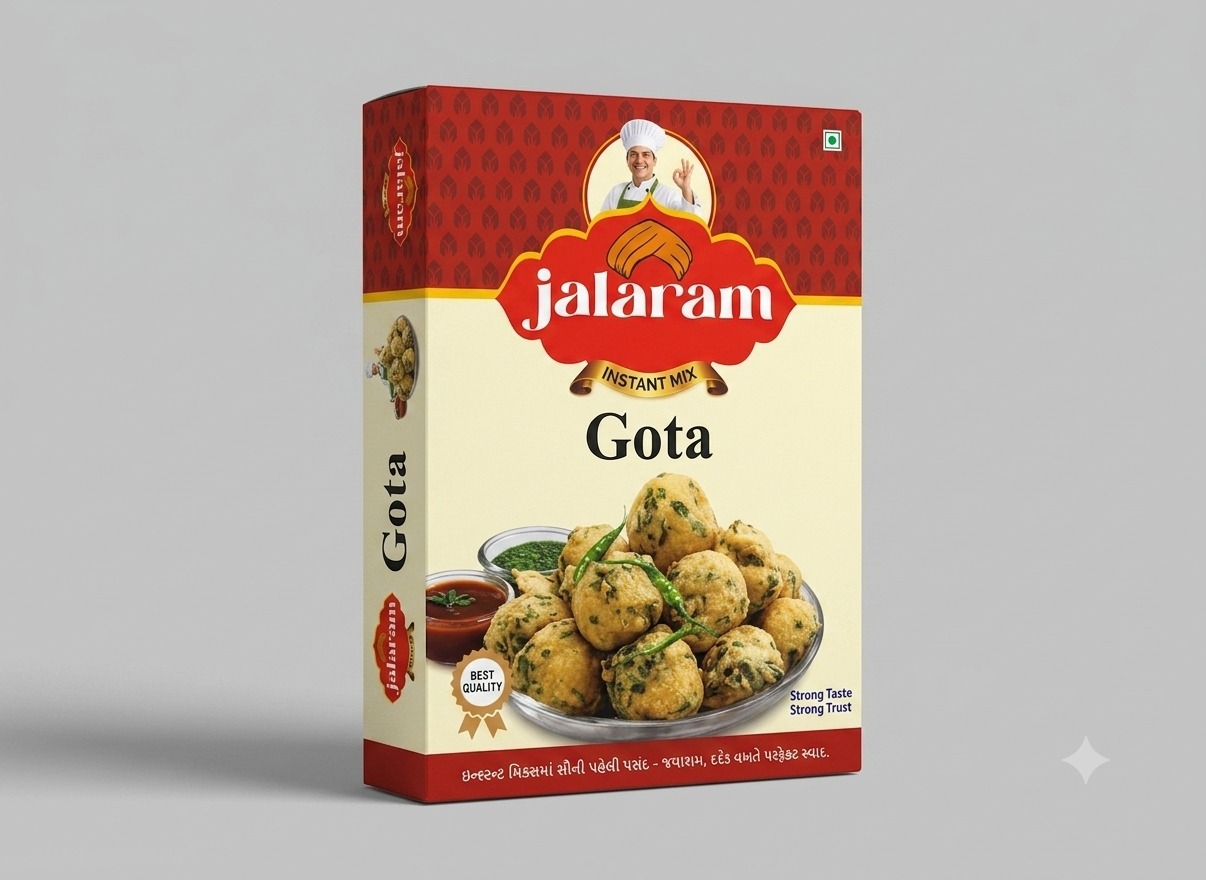
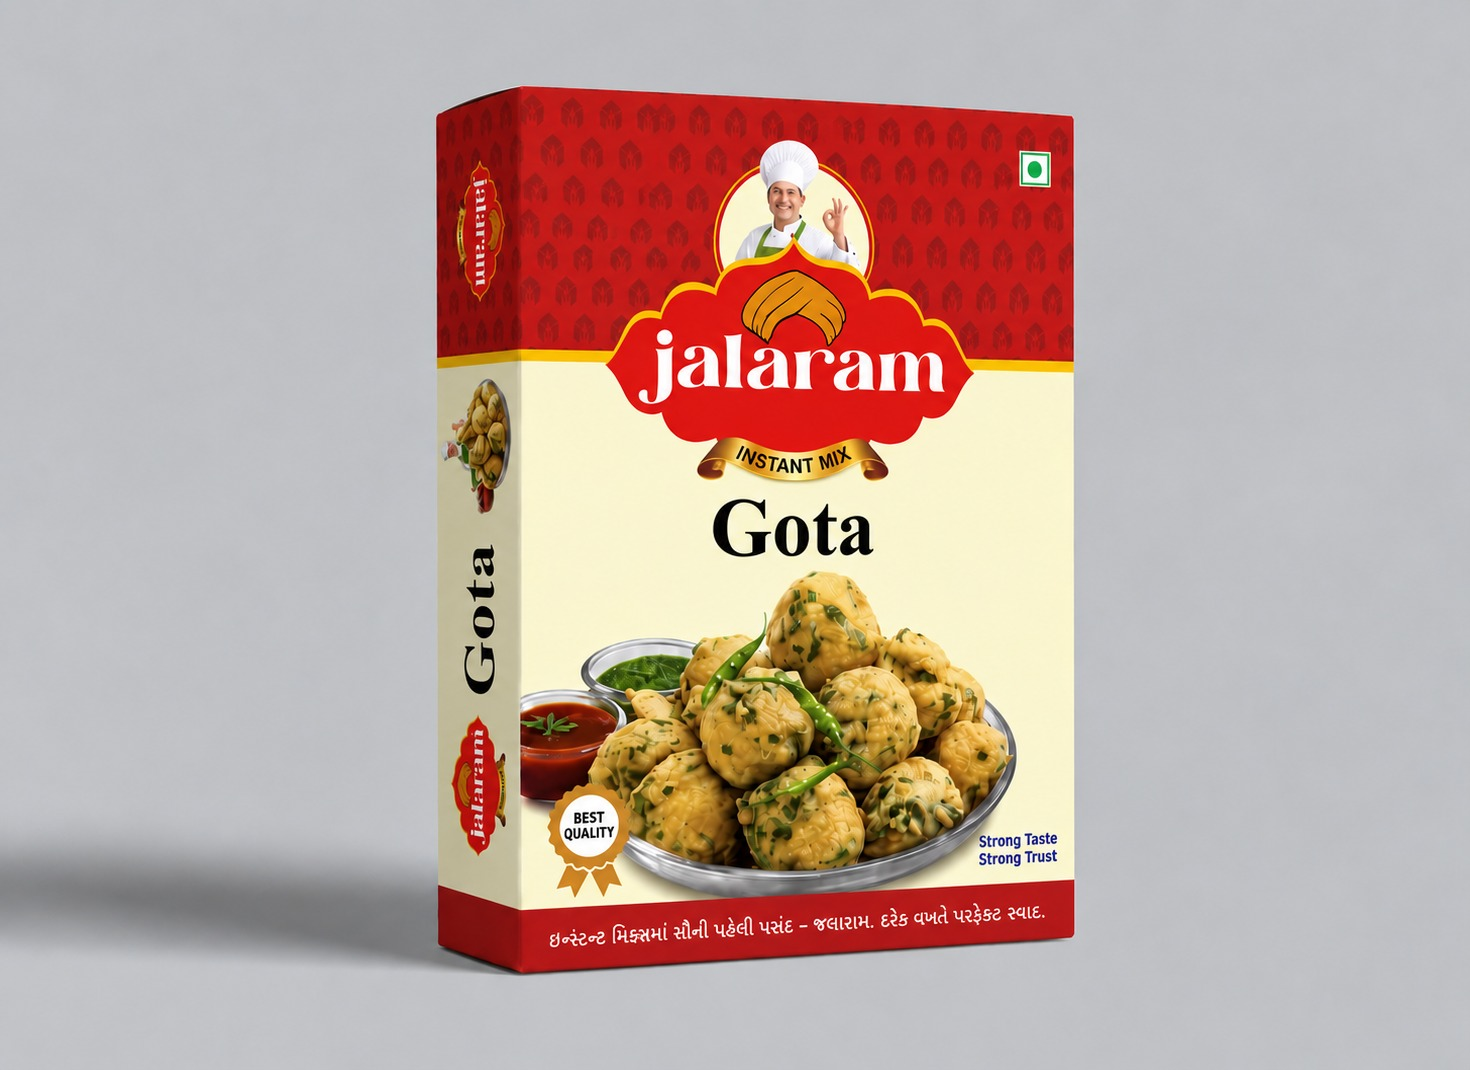
Fix Cosmetics tags, jalaram photo, decade copy, and mobile scroll lock
- Swap in newest Jalaram Gota box render, update its dimensions
- Change Siriza soap tag from "Cosmetics" to "Personal Care"
- Match "Over a decade" phrasing on the why-partner expertise card
- Simplify the two pharma case-study card descriptions
- Fix CurvedLoop's touch-none badge trapping mobile scroll when a
  touch starts on it (sticky in DesignerSpecCard); switch to touch-pan-y
- Add isConcept badge for self-directed concept portfolio pieces

Changed region(s): [[0.2761, 0.0614, 0.7363, 0.9205], [0.0, 0.7977, 0.2148, 0.8591]]

diff --git a/lib/constants/portfolio.ts b/lib/constants/portfolio.ts
@@ -17,6 +17,8 @@ export type PortfolioItem = {
   isFlagship?: boolean;
   /** Portrait (default) vs wide — set "wide" for landscape source photos */
   cardAspect?: "portrait" | "wide";
+  /** Self-directed concept piece — no live client brief. Surfaced as a "Concept Project" badge so it's never mistaken for paid client work. */
+  isConcept?: boolean;
 };
 
 export const portfolioItems: PortfolioItem[] = [
@@ -31,7 +33,7 @@ export const portfolioItems: PortfolioItem[] = [
     height: 1402,
     isFlagship: true,
     description:
-      "A pediatric paracetamol syrup carton needed dosage and usage information to read clearly at a glance, plus a friendlier, more approachable visual tone than a typical adult medicine box. The design keeps that label hierarchy simple and legible while working within the exact dieline and print-ready specs the format requires.",
+      "A friendly, easy-to-read carton for a children's paracetamol syrup. Dosage and usage stay clear at a glance, built to the exact dieline and print-ready specs the format calls for.",
   },
   {
     slug: "paracetamol-tablets-blue",
@@ -44,7 +46,7 @@ export const portfolioItems: PortfolioItem[] = [
     height: 1122,
     cardAspect: "wide",
     description:
-      "A 10x10 tablet strip carton needed to read clearly as a standard pharmaceutical pack — accurate strength and count labeling — built to the exact dieline the printer runs against. The blue wave graphic gives the pack a distinct shelf identity within an otherwise text-heavy, regulated layout.",
+      "A standard 10x10 tablet carton with clear strength and count labeling, built to the exact dieline the printer runs against. The blue wave graphic gives it a distinct look next to typical text-heavy medicine boxes.",
   },
   {
     slug: "shri-hanuman-realty-dholera",
@@ -103,7 +105,7 @@ export const portfolioItems: PortfolioItem[] = [
     title: "Lil'Aura — Lavender Car Freshener",
     client: "Lil'Aura",
     category: "packaging",
-    tags: ["Cosmetics", "Box Design"],
+    tags: ["Car Freshener", "Box Design"],
     src: "/portfolio/packaging/lilaura-car-freshener-lavender.webp",
     width: 1122,
     height: 1402,
@@ -114,7 +116,7 @@ export const portfolioItems: PortfolioItem[] = [
     title: "Lil'Aura — Oudh Wood Car Freshener",
     client: "Lil'Aura",
     category: "packaging",
-    tags: ["Cosmetics", "Box Design"],
+    tags: ["Car Freshener", "Box Design"],
     src: "/portfolio/packaging/lilaura-car-freshener-oudh-wood.webp",
     width: 1122,
     height: 1402,
@@ -147,7 +149,7 @@ export const portfolioItems: PortfolioItem[] = [
     title: "Siriza — Premium Herbal Soap Box",
     client: "Siriza",
     category: "packaging",
-    tags: ["Cosmetics", "Box Design"],
+    tags: ["Personal Care", "Box Design"],
     src: "/portfolio/packaging/siriza-herbal-soap-box.webp",
     width: 1264,
     height: 842,
@@ -160,8 +162,8 @@ export const portfolioItems: PortfolioItem[] = [
     category: "packaging",
     tags: ["Food & Snack", "Box Design"],
     src: "/portfolio/packaging/jalaram-gota-food-box.png",
-    width: 1206,
-    height: 880,
+    width: 1470,
+    height: 1070,
     dielineSrc: "/portfolio/dielines/jalaram-gota.png",
   },
   {

diff --git a/lib/constants/site-copy.ts b/lib/constants/site-copy.ts
@@ -54,8 +54,8 @@ export const whyPartner = {
   heading: "Why Partner With Me?",
   items: [
     {
-      title: "10+ Years of Expertise",
-      body: "A decade of professional freelance and studio experience at your service.",
+      title: "Over a Decade of Expertise",
+      body: "Over a decade of professional freelance and studio experience at your service.",
     },
     {
       title: "Print-Ready Guarantee",
@@ -78,14 +78,16 @@ export const whyPartner = {
 
 // Sourced from docs/client-requirements.md → "Addendum — 2026-08-31:
 // Pharmaceutical & healthcare packaging repositioning". Derived from facts
-// already established elsewhere in that doc — no new claims, no
-// regulatory-body language (CDSCO/ISO/GMP) until Amee confirms she designs
-// to those standards, no fabricated testimonials or stats.
+// already established elsewhere in that doc — no new claims. Per the
+// 2026-09-09 addendum, Amee confirmed she does NOT design to CDSCO/ISO
+// 15378/GMP specifically (those certify the manufacturer/factory, not the
+// artwork) — regulatory-body language stays out permanently, not just
+// pending confirmation. No fabricated testimonials or stats.
 export const pharma = {
   eyebrow: "Specialization",
   heading: "Pharmaceutical & Healthcare Packaging",
   intro:
-    "Regulatory medicine boxes and clinical/wellness literature are where precision matters most — exact dielines, accurate label copy, and print files your manufacturer can run without a single back-and-forth. It's a specialty within my packaging practice, built on the same print-ready guarantee as everything else I design.",
+    "Pharmaceutical and healthcare packaging demands more precision than most categories — exact dielines, accurate label copy, and print files your manufacturer can run without back-and-forth. It's a specialization within my packaging practice, built on the same print-ready guarantee I bring to every project.",
   ctaLabel: "Discuss a pharma packaging project",
   whatsappMessage: "Hi Amee, I'd like to discuss a pharmaceutical/healthcare packaging project.",
   trustPoints: [

diff --git a/components/portfolio/ProjectModal.tsx b/components/portfolio/ProjectModal.tsx
@@ -375,13 +375,21 @@ export function ProjectModal({
                   FEATURED
                 </span>
               )}
+              {item.isConcept && (
+                <span className="rounded-full bg-accent px-2.5 py-0.5 text-[10px] font-bold text-paper">
+                  CONCEPT PROJECT
+                </span>
+              )}
             </div>
 
             <h3 id="project-modal-title" className="mt-3 font-display text-2xl font-semibold text-ink sm:text-3xl">
               {item.title}
             </h3>
 
-            <p className="mt-2 text-sm text-ink-soft">Client / Brand: {item.client}</p>
+            <p className="mt-2 text-sm text-ink-soft">
+              Client / Brand: {item.client}
+              {item.isConcept ? " (self-directed concept, no live client brief)" : ""}
+            </p>
 
             <div className="mt-5 flex flex-wrap gap-1.5">
               {item.tags.map((tag) => (

diff --git a/components/motifs/CurvedLoop.tsx b/components/motifs/CurvedLoop.tsx
@@ -93,12 +93,17 @@ export function CurvedLoop({
   const repeated = unit.repeat(repeatCount);
 
   return (
+    // touch-pan-y, not touch-none: this badge renders inside a `sticky`
+    // card (DesignerSpecCard), so it stays under the same spot on screen
+    // while that section scrolls. touch-none there ate any scroll gesture
+    // that happened to start on it — the exact bug ImageTrail's comment
+    // warns about — so vertical panning has to pass through untouched.
     <svg
       ref={svgRef}
       viewBox={`0 0 ${size} ${size}`}
       width={size}
       height={size}
-      className={cn("cursor-grab touch-none select-none active:cursor-grabbing", className)}
+      className={cn("cursor-grab touch-pan-y select-none active:cursor-grabbing", className)}
       onPointerDown={onPointerDown}
       onPointerMove={onPointerMove}
       onPointerUp={onPointerUp}

diff --git a/components/portfolio/PortfolioCard.tsx b/components/portfolio/PortfolioCard.tsx
@@ -97,6 +97,11 @@ export function PortfolioCard({
               Featured Specimen
             </span>
           )}
+          {item.isConcept && (
+            <span className="rounded-full bg-accent px-3 py-1 font-spec text-[10px] font-bold text-paper shadow-sm">
+              Concept Project
+            </span>
+          )}
           <span className="rounded-full bg-ink/75 px-2.5 py-0.5 font-spec text-[9px] font-medium text-paper backdrop-blur-xs">
             {item.category === "packaging" ? "Folding Carton" : item.category === "logos" ? "Brand Vector" : "Editorial Print"}
           </span>

diff --git a/docs/client-requirements.md b/docs/client-requirements.md
@@ -160,3 +160,27 @@ Two new portfolio items were also added from client-supplied photos (same WhatsA
 Client sent the `prince-pipes-puja-kit` `.cdr` production file (single sheet, 40in × 28in, exported the same lossless `cdr2xhtml`/`rsvg-convert` way as the 7 files above — no content generated or guessed). Opened and visually verified the rendered output: real Prince Pipes logo, real "गणेश चतुर्थी पूजा किट" (Ganesh Chaturthi Puja Kit) branding, a real box dieline with fold/glue lines, a matching small "Agarbathi" sub-box dieline, and circular kit-item cutout inserts — consistent with the already-live product photo for this item. Wired into `portfolio.ts` as `dielineSrc: "/portfolio/dielines/prince-pipes-puja-kit.png"`, same convention as the other 7. All 8 packaging items with real client `.cdr` source files now have a genuine dieline; every other portfolio item correctly still falls back to the generic illustrative diagram.
 
 **Separately, same session:** found 7 untracked `*-back.jpg`/`*-side.jpg` files already sitting in `public/portfolio/packaging/` (not committed, not yet wired into any code) — AI-diffusion-generated fake back-panel/side images for `medween-pharma-box`, `paracetamol-syrup-pediatric-box`, `paracetamol-tablets-blue`, `organic-amla-powder-box` (×2), `madburgs-burger-box`, and a Lil'Aura item, apparently staged to feed a "3D model, all sides" feature. Same fabrication pattern as the Round 9/12/14/16 incidents already logged in project memory — fake Schedule H1/H warnings, fake batch/mfg/exp dates, a fake dosage table on the **pediatric** syrup specifically, a false attribution of the Paracetamol Tablets box to the real company **Cadila Pharmaceuticals Ltd**, garbled AI nonsense body copy on Organic Amla, and invented nutrition/certification claims on Madburgs. Deleted all 7 (untracked, unreferenced — a clean removal, not an undo of real work). **Do not regenerate multi-angle/3D-all-sides views for any product without real client-supplied photos or `.cdr` source for each side** — the front-only photo/dieline this project already has is not enough to honestly show a back or side panel.
+
+## Addendum — 2026-09-09: Amee's reply to the "site's live" outreach message, plus follow-on content fixes
+
+Amee replied (via Aman, WhatsApp) to the outreach message that shared the live Vercel URL and asked for photos/permissions/pharma-standard confirmation/quotes. Her answers, numbered per that message:
+
+1. **Headshot** — already sent; handled separately in the headshot v4/v5 commits (`ba165e1`, `ad08708`) preceding this session, not a change made here.
+2. **Higher-res portfolio photos** — she asked which pieces need them; Aman still needs to name them. Checked actual on-disk pixel dimensions of every portfolio image: `littlegrow-baby-cereal-box.png` (718×575) is the clear outlier — every other image on the site is 1024px+ on its short side. That's the one to ask Amee for a larger export of. (Moot for the LittleGrow *concept* framing below, but the resolution gap is real regardless.)
+3. **Color palette (coral/cyan/magenta/yellow)** — confirmed OK to keep live long-term. No code change needed; palette already live.
+4. **Public client-name permission** — confirmed **yes** for all 12 names listed (Madburgs, Lil'Aura, Medween, Organic Amla, KDM Pujan Samagri, Prince Pipes, Kenheal Healthcare, PeptidesDepot, Siriza, Jalaram Gota, TSD World, Taj Wood Paint). Already used as-is sitewide; no change needed.
+5. **CDSCO / ISO 15378 / GMP claim** — Amee said **no**, she does not design to those specific standards, and separately supplied a reference explaining why a graphic designer shouldn't claim them anyway (they certify the manufacturer/factory and its process, not the artwork/layout). This finalizes what `site-copy.ts`'s `pharma` comment already flagged as unconfirmed — regulatory-body language stays out of the Pharma section permanently, not just pending confirmation.
+6–8. **Pharma client quote, richer per-project detail, customer testimonials** — none supplied yet; Amee said she'll try to get them. Nothing to add until she sends real material — do not draft placeholder quotes/testimonials in the meantime (see the existing anti-fabrication rule and the unresolved testimonials.ts concern noted below).
+
+### Other fixes requested in the same message
+
+- **Lil'Aura product-type tag** — both Lil'Aura cards (`lilaura-lavender`, `lilaura-oudh`) had the tag `"Cosmetics"`, which Amee flagged as wrong; she sent a reference confirming the correct short category name is **car perfume / car diffuser / car hanging** (i.e. car freshener, matching the existing title copy). Tag changed to `"Car Freshener"` on both.
+- **Siriza tag reconsidered** — `siriza-herbal-soap`'s `"Cosmetics"` tag was previously judged correct-as-is (it is a soap). Amee later asked for "Cosmetics" removed from this card too; changed to `"Personal Care"` — still accurate for a soap box, without the word she flagged.
+- **Jalaram photo swap (round 2)** — Amee sent another new front-of-box photo for `jalaram-gota`; replaced `public/portfolio/packaging/jalaram-gota-food-box.png` in place (same path, new file, 1470×1070) and updated `width`/`height` in `portfolio.ts` to match. The real `.cdr`-derived dieline (`dielineSrc`) is unrelated to this photo and was left untouched.
+- **"10+ Years" → "Over a decade"** — the `whyPartner` card title/body in `site-copy.ts` said "10+ Years of Expertise" / "A decade of...", inconsistent with the "over a decade" phrasing used in the hero and about-section copy. Amee asked for it to match; both title and body now say "Over a decade...".
+- **Pharma case-study descriptions simplified** — Amee said the `paracetamol-syrup-pediatric` and `paracetamol-tablets-blue` card descriptions in `portfolio.ts` were too long/complex. Shortened both to plainer, simpler sentences with no new claims.
+- **Mobile scroll sometimes not working — root cause found and fixed** — the "AMEE J. PATEL · SINCE 2012" spinning stamp (`CurvedLoop`, `components/motifs/CurvedLoop.tsx`) had `touch-action: none` on its SVG so it could be drag-rotated. It sits inside `DesignerSpecCard`'s `sticky` About-section card, so it stays pinned at the same on-screen position while that section scrolls — any touch-scroll gesture starting on that 80px badge was swallowed entirely (`touch-none` blocks all native panning), while everywhere else on the page scrolled fine. Changed to `touch-pan-y`, the same fix already used for `HeroPoster`'s drag zone, so vertical scroll passes through untouched.
+- **New portfolio piece** — Amee sent a Pri's Kitchen "Methi Khakhra" box render to add; wired in as a new `packaging` item (`pris-kitchen-methi-khakhra`), same tagging convention as the other food/snack boxes (Jalaram, Madburgs). No `.cdr` source supplied for this one, so no `dielineSrc` — consistent with every other item that lacks one.
+- **LittleGrow and Organic Amla marked as concept projects** — Amee confirmed both `littlegrow-baby-cereal` and `organic-amla-powder` are self-directed concept pieces, not real client engagements. Added an `isConcept` flag to `PortfolioItem` (surfaced as a "Concept Project" badge on the card and in the modal, plus a "(self-directed concept, no live client brief)" note next to Client/Brand) and rewrote each item's `description` to say so plainly instead of implying a real client relationship.
+  - **Open concern this raises:** `lib/constants/testimonials.ts` has an "authentic" (commit message's word) testimonial from `"Organic Amla Remedies"` / "Dr. K. Sharma, Founder & Product Lead" claiming a real design partnership with Amee ("Google Review", `verified: true`). That is now directly contradicted by Amee confirming Organic Amla is a concept brand with no real client behind it. None of the 4 testimonials in that file have a sourcing note anywhere in this doc (unlike every other piece of content here), and Amee's own reply (items 6–8 above) confirms no testimonials have been supplied yet. Flagged to the user in-session; not resolved as part of this addendum — needs an explicit decision on whether to pull some or all of the 4 seed testimonials before they're trusted further.
+- **Pharma section wording** — Amee said the section's descriptive copy read as an improperly-formed sentence that didn't parse on first read. Rewrote `pharma.intro` in `site-copy.ts` for a plainer subject-verb-object structure (no new claims, no wording changes to the trust-point badges or the five pharma case-study card descriptions, which were already clear).
